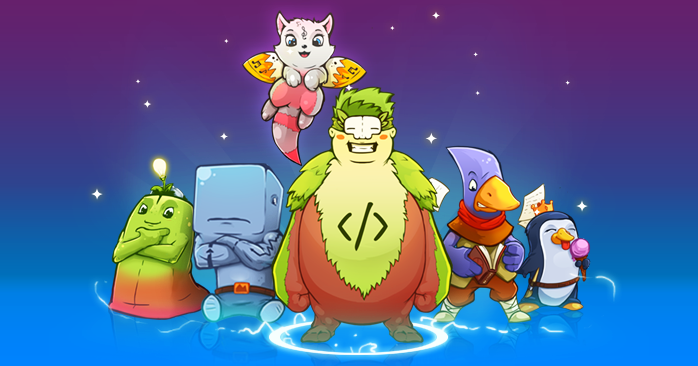
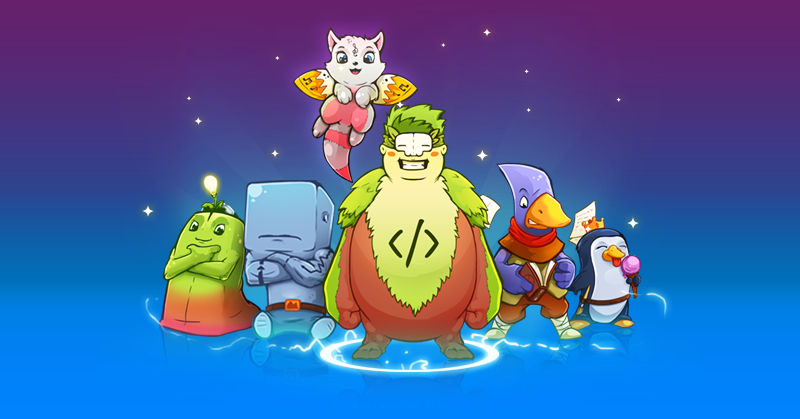
Updates

diff --git a/index.html b/index.html
@@ -1,1 +1,1 @@
-<!doctype html><html lang="en"><head><meta charset="UTF-8"><base href="/mgb/"><meta name="viewport" content="width=device-width,user-scalable=no,initial-scale=1,maximum-scale=1,minimum-scale=1"><meta http-equiv="X-UA-Compatible" content="ie=edge"><link rel="icon" href="/mgb/app/images/favicons/favicon-310.png"><link rel="stylesheet" href="/mgb/styles/main.css"><link rel="stylesheet" href="/mgb/merged-stylesheets.css"><meta property="og:site_name" content="MyGameBuilder"><meta property="og:url" content="https://build.games"><meta property="og:type" content="website"><meta property="og:title" content="MyGameBuilder"><meta property="og:description" content="Learn to build games in your browser. Make and play games together while learning real skills."><meta property="og:image" content="http://devlapse.github.io/mgb/app/images/mascots/team-gradient.jpg"><meta property="og:image:secure_url" content="https://devlapse.github.io/mgb/app/images/mascots/team-gradient.jpg"><meta property="og:image:type" content="image/jpeg"><meta property="og:image:width" content="600"><meta property="og:image:height" content="400"><meta property="og:image:alt" content="MyGameBuilder mascot team"><meta property="og:locale" content="en_US"><meta name="twitter:card" content="summary_large_image"><meta name="twitter:site" content="@my_game_builder"><meta name="twitter:creator" content="@stanchion"><meta name="twitter:title" content="My Game Builder"><meta name="twitter:description" content="Build games. Learn from friends. Have fun."><meta name="twitter:image" content="https://devlapse.github.io/mgb/app/images/mascots/team-twitter-card.png"><title>MyGameBuilder</title></head><body><!-- MENU --><div class="mgb-main-menu ui inverted borderless top fixed menu"><a class="item" href="https://v2.mygamebuilder.com/"><img class="mgb-menu-logo ui small image" src="/mgb/app/images/logos/mgb/medium/01w.png"></a><div class="right menu"><a class="item" href="https://v2.mygamebuilder.com/login">Login </a><a class="item" href="https://v2.mygamebuilder.com/signup"><button class="ui small primary button">Signup</button></a></div></div><!-- HERO --><section class="mgb-hero"><div class="mgb-hero-caption"><h1 class="ui inverted header">Learn to build games in your browser</h1><p class="mgb-lead">Make and play games together while learning real skills</p></div><!-- PILED SECTION --><div class="ui container"><div class="mgb-piled-container"><div class="mgb-piled-panel back"></div><div class="mgb-piled-panel middle"></div><div class="mgb-piled-panel front"></div><!-- GAME --><div class="mgb-games"><div class="mgb-game"><div class="mgb-lazy" data-lazy-tag="iframe" data-lazy-scrolling="no" data-lazy-src="https://d1d15nbexzn633.cloudfront.net/api/asset/code/bundle/hHncMnhmS7f5Mb5qa"><img src="/mgb/img/game-placeholder.jpg" alt="Actor Map Editor"></div></div></div></div><div class="ui hidden divider"></div><!-- BULLETS --><div class="ui equal width stackable center aligned divided grid"><div class="column"><h3 class="ui icon inverted header"><i class="hand paper icon"></i> <span class="content">Make Games</span></h3><br><div class="ui tiny inverted statistic"><div class="value">3,000,000+</div><div class="label">Original Assets</div></div></div><div class="column"><h3 class="ui icon inverted header"><i class="users icon"></i> <span class="content">Learn from friends</span></h3><br><div class="ui tiny inverted statistic"><div class="value">150,000+</div><div class="label">Game Builders</div></div></div><div class="column"><h3 class="ui icon inverted header"><i class="smile icon"></i> <span class="content">Have Fun</span></h3><br><div class="ui tiny inverted statistic"><div class="value">100% Free</div><div class="label">For public projects</div></div></div></div></div></section><!-- VIDEOS --><section class="mgb-videos"><div class="ui container"><div class="ui equal width grid"><div class="eight wide computer sixteen wide tablet column"><h1 class="ui inverted header"><em>Non-code</em> Games <span class="sub header">Use Actors to build games without writing any code</span></h1><div class="mgb-lazy" data-lazy-tag="video" data-lazy-src="/mgb/img/actormapEditor.webm"><img src="/mgb/img/actormapEditor-cover.png" alt="Actor Map Editor"></div></div><div class="mobile only tablet only column"><div class="ui divider"></div></div><div class="eight wide computer sixteen wide tablet column"><h1 class="ui inverted header"><em>Code</em> Games <span class="sub header">Use our full featured code editor to write games</span></h1><div class="mgb-lazy" data-lazy-tag="video" data-lazy-src="/mgb/img/codeEditor.webm"><img src="/mgb/img/codeEditor-cover.png" alt="Code Editor"></div></div></div></div></section><!-- ALTERNATING --><section class="mgb-alternating"><div class="ui container"><!-- SKILLS --><div class="ui middle aligned equal width stackable mobile vertically reversed grid mgb-alternate-right"><div class="seven wide computer six wide tablet column"><h2 class="ui inverted header">Grow your <em>real</em> skills tree <span class="sub header">Learn all the skills you need to make and sell real games. Gain coding, design, team and business skills through real experiences with others.</span></h2><a class="ui big primary fluid button" href="https://v2.mygamebuilder.com/learn/get-started" target="_blank">Start Learning</a></div><div class="nine wide computer ten wide tablet column"><div class="mgb-mock-skillsmap mgb-alternating-media"><div class="bar get-started"><div class="label"><i class="small plus icon"></i>Get Started</div></div><div class="bar code"><div class="label"><i class="small plus icon"></i>Code</div></div><div class="bar art"><div class="label"><i class="small plus icon"></i>Art</div></div><div class="bar design"><div class="label"><i class="small plus icon"></i>Design</div></div><div class="bar audio"><div class="label"><i class="small plus icon"></i>Audio</div></div><div class="bar analytics"><div class="label"><i class="small plus icon"></i>Analytics</div></div><div class="bar writing"><div class="label"><i class="small plus icon"></i>Writing</div></div><div class="bar marketing"><div class="label"><i class="small plus icon"></i>Marketing</div></div><div class="bar community"><div class="label"><i class="small plus icon"></i>Community</div></div><div class="bar legal"><div class="label"><i class="small plus icon"></i>Legal</div></div><div class="bar business"><div class="label"><i class="small plus icon"></i>Business</div></div></div><img style="transform: scaleX(-1)" class="mgb-alternating-mascot" src="/mgb/app/images/mascots/duck.png" alt="Duck"></div></div><div class="ui section divider"></div><!-- TUTORIALS --><div class="ui middle aligned equal width stackable grid"><div class="nine wide computer ten wide tablet column"><img class="mgb-alternating-media ui image" src="/mgb/img/tutorials_1200x720.png"> <img class="mgb-alternating-mascot" src="/mgb/app/images/mascots/bigguy.png" alt="Duck"></div><div class="seven wide computer six wide tablet column"><h2 class="ui inverted header">Best tutorials you&apos;ve ever seen <span class="sub header">Step-by-step programming/art/design tutorials &amp; help systems <em>within</em> the game editors.</span></h2><a class="ui big primary fluid button" href="https://v2.mygamebuilder.com/learn/get-started" target="_blank">Try it</a></div></div><div class="ui section divider"></div><!-- BADGES --><div class="ui middle aligned equal width stackable mobile vertically reversed grid mgb-alternate-right"><div class="seven wide computer six wide tablet column"><h2 class="ui inverted header">Join and grow within our community <span class="sub header">Join our community of 150,000 Game Builders. Earn skill badges as you progress from beginner to guru.</span></h2><a class="ui big primary fluid button" href="https://v2.mygamebuilder.com/learn/get-started" target="_blank">Earn Badges</a></div><div class="nine wide computer ten wide tablet column"><img class="mgb-alternating-media ui image" src="/mgb/img/profile.png"> <img class="mgb-alternating-mascot" src="/mgb/app/images/mascots/ideaguy.png" alt="Duck"></div></div></div></section><section><div class="ui text container"><h1 class="ui center aligned icon header"><img class="ui medium image" src="/mgb/app/images/mascots/team.png"> <span class="content">For Everyone</span></h1><div class="ui segment"><div class="ui one column center aligned grid"><div class="column"><div class="ui compact secondary menu mgb-for-everyone-menu"><a class="item active">Students</a> <a class="item">Parents</a> <a class="item">GameJammers</a></div><div class="ui compact secondary menu mgb-for-everyone-menu"><a class="item">Artists</a> <a class="item">Teachers</a> <a class="item">Trolls</a></div><div class="ui fitted hidden divider mgb-for-everyone-divider"></div></div><div class="column"><div class="ui header"><span class="mgb-for-everyone-main">Have a great game idea? We&apos;ll help you make it!</span></div><p class="sub header mgb-for-everyone-secondary">Start by making Actor-based games <em>without</em> code. Later, code deeper games using JavaScript if you want to.</p></div></div></div></div></section><!-- FOOTER --><footer class="ui inverted vertical segment"><div class="ui container"><div class="ui equal width stackable grid"><div class="eight wide column"><h4 class="ui inverted header">Gain Skills</h4><p>Learn real world skills like Javascript and software design, but without boring &apos;do this, do that&apos; lessons. Learn by making, learn from friends, pay it forward.</p></div><div class="column"><h4 class="ui inverted header">Make Games</h4><div class="ui inverted list"><div class="item">Make Art, Maps &amp; Audio</div><div class="item">Code the game you want</div></div></div><div class="column"><h4 class="ui inverted header">Make Friends</h4><div class="ui inverted list"><div class="item">Help each other out</div><div class="item">Work in teams</div></div></div><div class="column"><h4 class="ui inverted header">Have Fun</h4><div class="ui inverted list"><div class="item">Play games</div><div class="item">Learn the fun way</div></div></div></div><div class="ui equal width stackable grid"><div class="eight wide column">Copyright &#xA9;2017 MyCodeBuilder Inc. All Rights Reserved.</div><div class="column"><div class="ui equal width grid"><div class="column"><div class="ui small inverted horizontal divided link list"><a class="item" href="https://v2.mygamebuilder.com/legal/tos" target="_blank">Terms and Conditions</a> <a class="item" href="https://v2.mygamebuilder.com/legal/privacy" target="_blank">Privacy Policy</a> <a class="item" href="mailto:david@mycodebuilder.com">Contact Us</a></div></div></div></div></div></div></footer><script src="/mgb/js/main.js"></script></body></html>
+<!doctype html><html lang="en"><head><meta charset="UTF-8"><base href="/mgb/"><meta name="viewport" content="width=device-width,user-scalable=no,initial-scale=1,maximum-scale=1,minimum-scale=1"><meta http-equiv="X-UA-Compatible" content="ie=edge"><link rel="icon" href="/mgb/app/images/favicons/favicon-310.png"><link rel="stylesheet" href="/mgb/styles/main.css"><link rel="stylesheet" href="/mgb/merged-stylesheets.css"><meta property="og:site_name" content="MyGameBuilder"><meta property="og:url" content="https://build.games"><meta property="og:type" content="website"><meta property="og:title" content="MyGameBuilder"><meta property="og:description" content="Learn to build games in your browser. Make and play games together while learning real skills."><meta property="og:image" content="http://devlapse.github.io/mgb/app/images/mascots/team-twitter-card.png"><meta property="og:image:secure_url" content="https://devlapse.github.io/mgb/app/images/mascots/team-twitter-card.png"><meta property="og:image:type" content="image/jpeg"><meta property="og:image:width" content="600"><meta property="og:image:height" content="400"><meta property="og:image:alt" content="MyGameBuilder mascot team"><meta property="og:locale" content="en_US"><meta name="twitter:card" content="summary_large_image"><meta name="twitter:site" content="@my_game_builder"><meta name="twitter:creator" content="@stanchion"><meta name="twitter:title" content="My Game Builder"><meta name="twitter:description" content="Build games. Learn from friends. Have fun."><meta name="twitter:image" content="https://devlapse.github.io/mgb/app/images/mascots/team-twitter-card.png"><title>MyGameBuilder</title></head><body><!-- MENU --><div class="mgb-main-menu ui inverted borderless top fixed menu"><a class="item" href="https://v2.mygamebuilder.com/"><img class="mgb-menu-logo ui small image" src="/mgb/app/images/logos/mgb/medium/01w.png"></a><div class="right menu"><a class="item" href="https://v2.mygamebuilder.com/login">Login </a><a class="item" href="https://v2.mygamebuilder.com/signup"><button class="ui small primary button">Signup</button></a></div></div><!-- HERO --><section class="mgb-hero"><div class="mgb-hero-caption"><h1 class="ui inverted header">Learn to build games in your browser</h1><p class="mgb-lead">Make and play games together while learning real skills</p></div><!-- PILED SECTION --><div class="ui container"><div class="mgb-piled-container"><div class="mgb-piled-panel back"></div><div class="mgb-piled-panel middle"></div><div class="mgb-piled-panel front"></div><!-- GAME --><div class="mgb-games"><div class="mgb-game"><div class="mgb-lazy" data-lazy-tag="iframe" data-lazy-scrolling="no" data-lazy-src="https://d1d15nbexzn633.cloudfront.net/api/asset/code/bundle/hHncMnhmS7f5Mb5qa"><img src="/mgb/img/game-placeholder.jpg" alt="Actor Map Editor"></div></div></div></div><div class="ui hidden divider"></div><!-- BULLETS --><div class="ui equal width stackable center aligned divided grid"><div class="column"><h3 class="ui icon inverted header"><i class="hand paper icon"></i> <span class="content">Make Games</span></h3><br><div class="ui tiny inverted statistic"><div class="value">3,000,000+</div><div class="label">Original Assets</div></div></div><div class="column"><h3 class="ui icon inverted header"><i class="users icon"></i> <span class="content">Learn from friends</span></h3><br><div class="ui tiny inverted statistic"><div class="value">150,000+</div><div class="label">Game Builders</div></div></div><div class="column"><h3 class="ui icon inverted header"><i class="smile icon"></i> <span class="content">Have Fun</span></h3><br><div class="ui tiny inverted statistic"><div class="value">100% Free</div><div class="label">For public projects</div></div></div></div></div></section><!-- VIDEOS --><section class="mgb-videos"><div class="ui container"><div class="ui equal width grid"><div class="eight wide computer sixteen wide tablet column"><h1 class="ui inverted header"><em>Non-code</em> Games <span class="sub header">Use Actors to build games without writing any code</span></h1><div class="mgb-lazy" data-lazy-tag="video" data-lazy-src="/mgb/img/actormapEditor.webm"><img src="/mgb/img/actormapEditor-cover.png" alt="Actor Map Editor"></div></div><div class="mobile only tablet only column"><div class="ui divider"></div></div><div class="eight wide computer sixteen wide tablet column"><h1 class="ui inverted header"><em>Code</em> Games <span class="sub header">Use our full featured code editor to write games</span></h1><div class="mgb-lazy" data-lazy-tag="video" data-lazy-src="/mgb/img/codeEditor.webm"><img src="/mgb/img/codeEditor-cover.png" alt="Code Editor"></div></div></div></div></section><!-- ALTERNATING --><section class="mgb-alternating"><div class="ui container"><!-- SKILLS --><div class="ui middle aligned equal width stackable mobile vertically reversed grid mgb-alternate-right"><div class="seven wide computer six wide tablet column"><h2 class="ui inverted header">Grow your <em>real</em> skills tree <span class="sub header">Learn all the skills you need to make and sell real games. Gain coding, design, team and business skills through real experiences with others.</span></h2><a class="ui big primary fluid button" href="https://v2.mygamebuilder.com/learn/get-started" target="_blank">Start Learning</a></div><div class="nine wide computer ten wide tablet column"><div class="mgb-mock-skillsmap mgb-alternating-media"><div class="bar get-started"><div class="label"><i class="small plus icon"></i>Get Started</div></div><div class="bar code"><div class="label"><i class="small plus icon"></i>Code</div></div><div class="bar art"><div class="label"><i class="small plus icon"></i>Art</div></div><div class="bar design"><div class="label"><i class="small plus icon"></i>Design</div></div><div class="bar audio"><div class="label"><i class="small plus icon"></i>Audio</div></div><div class="bar analytics"><div class="label"><i class="small plus icon"></i>Analytics</div></div><div class="bar writing"><div class="label"><i class="small plus icon"></i>Writing</div></div><div class="bar marketing"><div class="label"><i class="small plus icon"></i>Marketing</div></div><div class="bar community"><div class="label"><i class="small plus icon"></i>Community</div></div><div class="bar legal"><div class="label"><i class="small plus icon"></i>Legal</div></div><div class="bar business"><div class="label"><i class="small plus icon"></i>Business</div></div></div><img style="transform: scaleX(-1)" class="mgb-alternating-mascot" src="/mgb/app/images/mascots/duck.png" alt="Duck"></div></div><div class="ui section divider"></div><!-- TUTORIALS --><div class="ui middle aligned equal width stackable grid"><div class="nine wide computer ten wide tablet column"><img class="mgb-alternating-media ui image" src="/mgb/img/tutorials_1200x720.png"> <img class="mgb-alternating-mascot" src="/mgb/app/images/mascots/bigguy.png" alt="Duck"></div><div class="seven wide computer six wide tablet column"><h2 class="ui inverted header">Best tutorials you&apos;ve ever seen <span class="sub header">Step-by-step programming/art/design tutorials &amp; help systems <em>within</em> the game editors.</span></h2><a class="ui big primary fluid button" href="https://v2.mygamebuilder.com/learn/get-started" target="_blank">Try it</a></div></div><div class="ui section divider"></div><!-- BADGES --><div class="ui middle aligned equal width stackable mobile vertically reversed grid mgb-alternate-right"><div class="seven wide computer six wide tablet column"><h2 class="ui inverted header">Join and grow within our community <span class="sub header">Join our community of 150,000 Game Builders. Earn skill badges as you progress from beginner to guru.</span></h2><a class="ui big primary fluid button" href="https://v2.mygamebuilder.com/learn/get-started" target="_blank">Earn Badges</a></div><div class="nine wide computer ten wide tablet column"><img class="mgb-alternating-media ui image" src="/mgb/img/profile.png"> <img class="mgb-alternating-mascot" src="/mgb/app/images/mascots/ideaguy.png" alt="Duck"></div></div></div></section><section><div class="ui text container"><h1 class="ui center aligned icon header"><img class="ui medium image" src="/mgb/app/images/mascots/team.png"> <span class="content">For Everyone</span></h1><div class="ui segment"><div class="ui one column center aligned grid"><div class="column"><div class="ui compact secondary menu mgb-for-everyone-menu"><a class="item active">Students</a> <a class="item">Parents</a> <a class="item">GameJammers</a></div><div class="ui compact secondary menu mgb-for-everyone-menu"><a class="item">Artists</a> <a class="item">Teachers</a> <a class="item">Trolls</a></div><div class="ui fitted hidden divider mgb-for-everyone-divider"></div></div><div class="column"><div class="ui header"><span class="mgb-for-everyone-main">Have a great game idea? We&apos;ll help you make it!</span></div><p class="sub header mgb-for-everyone-secondary">Start by making Actor-based games <em>without</em> code. Later, code deeper games using JavaScript if you want to.</p></div></div></div></div></section><!-- FOOTER --><footer class="ui inverted vertical segment"><div class="ui container"><div class="ui equal width stackable grid"><div class="eight wide column"><h4 class="ui inverted header">Gain Skills</h4><p>Learn real world skills like Javascript and software design, but without boring &apos;do this, do that&apos; lessons. Learn by making, learn from friends, pay it forward.</p></div><div class="column"><h4 class="ui inverted header">Make Games</h4><div class="ui inverted list"><div class="item">Make Art, Maps &amp; Audio</div><div class="item">Code the game you want</div></div></div><div class="column"><h4 class="ui inverted header">Make Friends</h4><div class="ui inverted list"><div class="item">Help each other out</div><div class="item">Work in teams</div></div></div><div class="column"><h4 class="ui inverted header">Have Fun</h4><div class="ui inverted list"><div class="item">Play games</div><div class="item">Learn the fun way</div></div></div></div><div class="ui equal width stackable grid"><div class="eight wide column">Copyright &#xA9;2017 MyCodeBuilder Inc. All Rights Reserved.</div><div class="column"><div class="ui equal width grid"><div class="column"><div class="ui small inverted horizontal divided link list"><a class="item" href="https://v2.mygamebuilder.com/legal/tos" target="_blank">Terms and Conditions</a> <a class="item" href="https://v2.mygamebuilder.com/legal/privacy" target="_blank">Privacy Policy</a> <a class="item" href="mailto:david@mycodebuilder.com">Contact Us</a></div></div></div></div></div></div></footer><script src="/mgb/js/main.js"></script></body></html>
